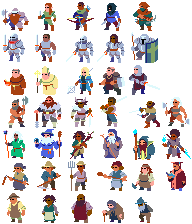
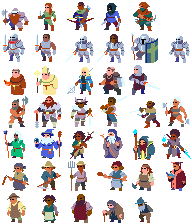
sprites working
holy im dentge

Changed region(s): [[0.875, 0.1562, 1.0, 0.2812]]

diff --git a/Assets/Scripts/GridManager.cs b/Assets/Scripts/GridManager.cs
@@ -19,6 +19,7 @@ public class GridManager : MonoBehaviour
 
     public GameObject agentObj;
     public GameObject enemyPrefab;
+    public GameObject groundPrefab;
 
     void Start()
     {
@@ -71,11 +72,14 @@ public class GridManager : MonoBehaviour
             for (int y = 0; y < height; y++)
             {
                 Vector3 position = new Vector3(x * cellSize, y * cellSize, 0);
-                GameObject cellObj = new GameObject($"Cell_{x}_{y}"); //replace with cellPrefab later for sprite
+                //GameObject cellObj = new GameObject($"Cell_{x}_{y}"); //replace with cellPrefab later for sprite
+                GameObject cellObj = Instantiate(groundPrefab, position, Quaternion.identity);
+                cellObj.name = $"Cell_{x}_{y}";
                 cellObj.transform.position = position;
                 cellObj.transform.parent = transform;
 
-                Cell cell = cellObj.AddComponent<Cell>();
+                //Cell cell = cellObj.AddComponent<Cell>();
+                Cell cell = cellObj.GetComponent<Cell>();
                 cell.Initialize(x, y);
                 grid[x, y] = cell;
 
@@ -284,13 +288,13 @@ public class GridManager : MonoBehaviour
                 {
                     if (grid[x, y].isWall)
                     {
-                        Gizmos.color = Color.black;
-                        Gizmos.DrawCube(position, Vector3.one * (cellSize * 0.9f));
+                        Gizmos.color = Color.white;
+                        //Gizmos.DrawCube(position, Vector3.one * (cellSize * 0.9f));
                     }
                     else if (grid[x, y].isExit)
                     {
                         Gizmos.color = Color.green;
-                        Gizmos.DrawCube(position, Vector3.one * (cellSize * 0.9f));
+                        //Gizmos.DrawCube(position, Vector3.one * (cellSize * 0.9f));
                     }
                 }
             }

diff --git a/Assets/Scripts/Agent/AgentAI.cs b/Assets/Scripts/Agent/AgentAI.cs
@@ -2,6 +2,7 @@ using System.Collections;
 using System.Collections.Generic;
 using System.Transactions;
 using UnityEngine;
+using UnityEngine.SceneManagement;
 
 public class AgentAI : MonoBehaviour
 {
@@ -212,21 +213,27 @@ public class AgentAI : MonoBehaviour
     }
 
     //Kills the Agent when touching the enemy (will expand/change in the future)
-    /*private void OnTriggerEnter2D(Collider2D collision)
+    private void OnTriggerEnter2D(Collider2D collision)
     {
         if (collision.tag == "Enemy" && !isDead)
         {
             isDead = true;
             StopAllCoroutines();
-            Debug.Log("Agent has died");
+            Debug.Log("Agent has died, reloading in 5s");
 
             SpriteRenderer spriteRend = this.gameObject.GetComponent<SpriteRenderer>();
             spriteRend.color = Color.red;
             gameObject.transform.Rotate(0f, 0f, 90f, Space.Self);
 
-            Destroy(this.gameObject, 5f);
+            //Destroy(this.gameObject, 5f);
+            Invoke("ReloadScene", 5f);
         }
-    }*/
+    }
+
+    void ReloadScene()
+    {
+        SceneManager.LoadScene(SceneManager.GetActiveScene().buildIndex);
+    }
 
     /////////////
     /// A* pathfinding logic (made by chatgpt - to be honest, i only get the theory behind it but not the intricacy of the code itself) <summary>

diff --git a/Assets/Scripts/Class/Cell.cs b/Assets/Scripts/Class/Cell.cs
@@ -19,6 +19,8 @@ public class Cell : MonoBehaviour
 
     //store sprites
     [SerializeField] Sprite groundSprite;
+    [SerializeField] Sprite groundSprite2;
+    [SerializeField] Sprite groundSprite3;
     [SerializeField] Sprite wallSprite;
     [SerializeField] Sprite exitSprite;
 
@@ -36,8 +38,19 @@ public class Cell : MonoBehaviour
         hCost = 0;
         parent = null;
 
-        spriteRend = this.gameObject.GetComponent<SpriteRenderer>();
-
+        int randomIndex = Random.Range(0, 2);
+        switch (randomIndex)
+        {
+            case 0:
+                spriteRend.sprite = groundSprite;
+                break;
+            case 1:
+                spriteRend.sprite = groundSprite2;
+                break;
+            case 2:
+                spriteRend.sprite = groundSprite3;
+                break;
+        }
     }
 
     //Set cell event
@@ -51,6 +64,7 @@ public class Cell : MonoBehaviour
     {
         isWall = true;
         cellEvent = "Wall";
+        spriteRend.sprite = wallSprite;
     }
 
     //Set as exit
@@ -58,6 +72,7 @@ public class Cell : MonoBehaviour
     {
         isExit = true;
         cellEvent = "Exit";
+        spriteRend .sprite = exitSprite;
     }
 
     //Calc the heuristic cost
